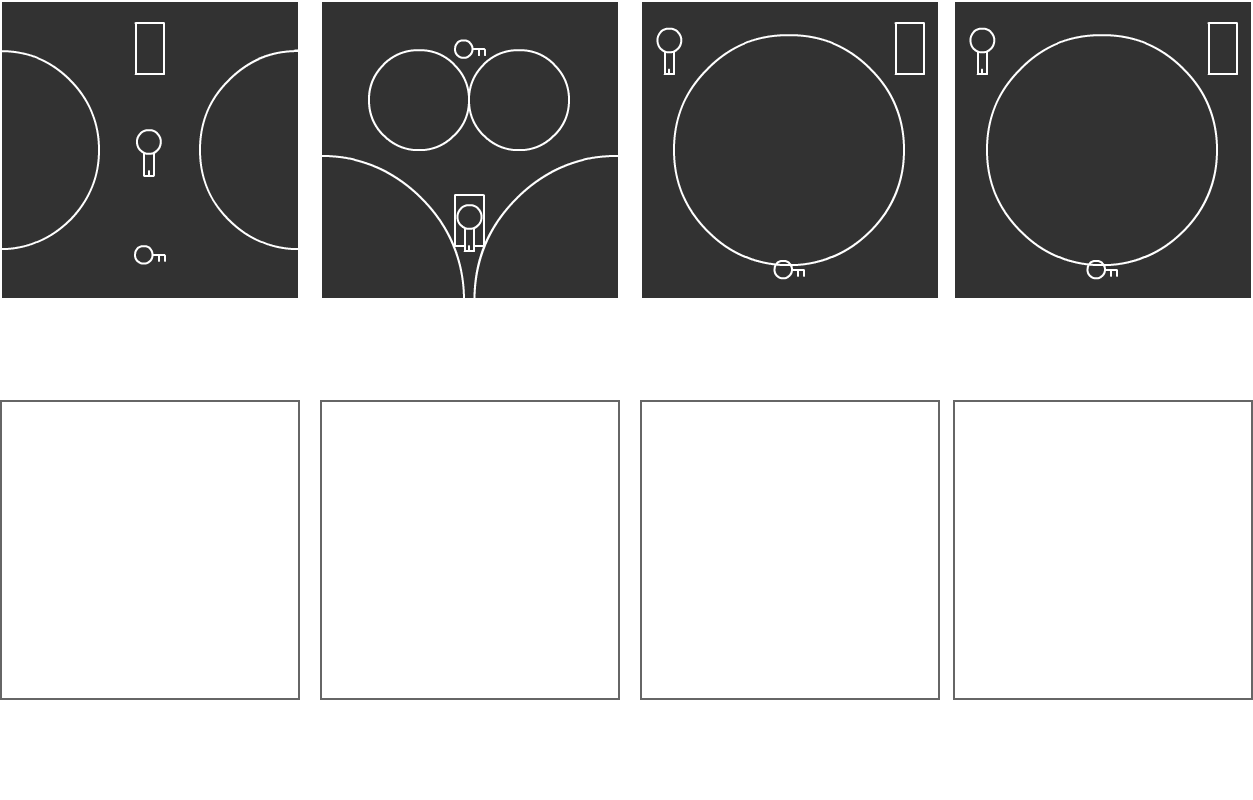
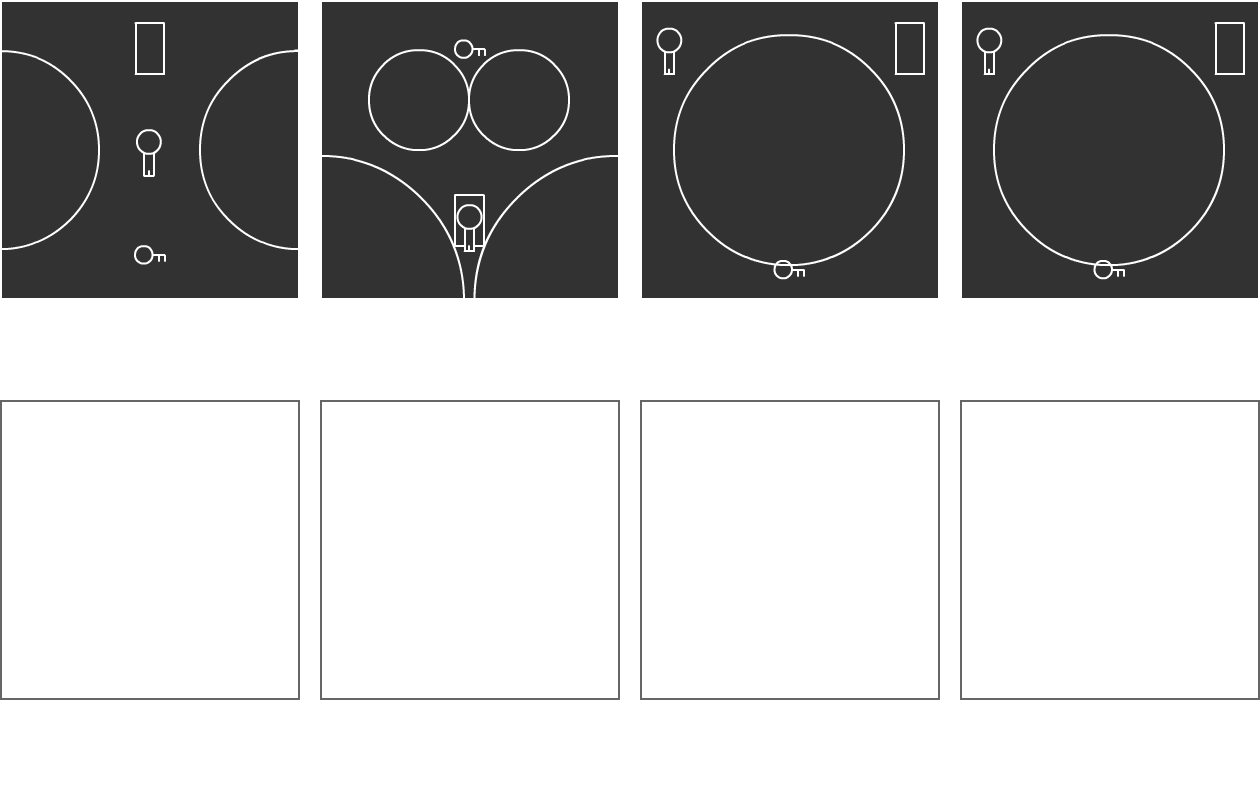
readjusted background levels

diff --git a/js/game.js b/js/game.js
@@ -892,7 +892,7 @@ window.INTRO_LEVEL = {
 
 window.LEVEL_CONFIG = [
 
-	// I
+	// P
 	{
 		canvas:document.getElementById("canvas_1"),
 		player:{ x:150, y:175 },
@@ -905,7 +905,7 @@ window.LEVEL_CONFIG = [
 		countdown:90
 	},
 
-	// HEART
+	// R
 	{
 		canvas:document.getElementById("canvas_2"),
 		player:{ x:150, y:250 },
@@ -922,7 +922,7 @@ window.LEVEL_CONFIG = [
 		countdown: 200
 	},
 
-	// U
+	// O
 	{
 		canvas:document.getElementById("canvas_3"),
 		player:{ x:30, y:75 },
@@ -932,7 +932,19 @@ window.LEVEL_CONFIG = [
 			{x:150,y:150,radius:115}
 		],
 		countdown: 130
-	}
+	},
 
+	// M
+	{
+		canvas:document.getElementById("canvas_4"),
+		player:{ x:150, y:175 },
+		door:{ x:150, y:75 },
+		key:{ x:150, y:275 },
+		circles: [
+			{x:0,y:150,radius:100},
+			{x:300,y:150,radius:100}
+		],
+		countdown:90
+	}
 ];
 
